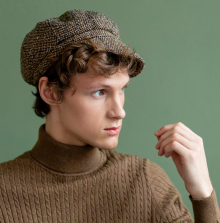
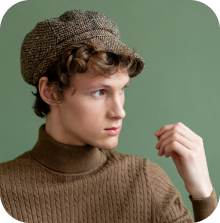
push

diff --git a/index.html b/index.html
@@ -70,50 +70,37 @@
       <!-- highlight -->
       <section class="highlight">
         <!-- content -->
+        <div class="highlight-image__small">
+          <img src="./images/mask-group.png" alt="">
+          <img src="./images/Group-87.png" alt="" class="highlight-image__small-arrow">
+        </div>
         <div class="highlight-content">
           <h1 class="highlight-heading">
             Shop the Best <span>Styles</span> in<br />One Place
           </h1>
         </div>
+       <!-- image -->
+       <div class="highlight-image">
+        <div class="highlight-image__left">
+          <img src="./images/portrait-young-man-with-hat.png" alt=""/>
+          <div class="highlight-image__left2">
+            <img src="./images/young-handsome-smiling-happy-man-traveling-hipster-bicycle-holding-vintage-photo-camera-blue-studio-background-wearing-shirt-hat-sunglasses-photographer-taking-pictures.png" alt="">  
+            <img src="./images/medium-shot-beautiful-smiling-woman 1.png"/>
+          </div>
+        </div>
+        <div class="highlight-image__mid">
+          <img src="./images/portrait-fashionable-boy-posing.png"/>
+        </div>
+       <div class="highlight-image__left">
+         <div class="highlight-image__left2">
+           <img src="./images/side-view-sensitive-man-posing-with-flower.png" alt="">  
+           <img src="./images/close-up-portrait-young-attractive-man-wearing-white-casual-long-sleeve-shirt-gray-cap-posing-isolated-lilac-standing-with-folded-arms-copy-space 1.png"/>
+         </div>
+          <img src="./images/man-wearing-sunglasses.png" alt=""/>
+        </div>
       </section>
       <!-- image -->
-      <div class="highlight-image">
-        <img
-          class="round-image"
-          src="./images/portrait-young-man-with-hat.png"
-          alt=""
-        />
-        <img
-          class="round-image"
-          src="./images/young-handsome-smiling-happy-man-traveling-hipster-bicycle-holding-vintage-photo-camera-blue-studio-background-wearing-shirt-hat-sunglasses-photographer-taking-pictures.png"
-          alt=""
-        />
-        <img
-          class="round-image"
-          src="./images/medium-shot-beautiful-smiling-woman 1.png"
-          alt=""
-        />
-        <img
-          class="round-image"
-          src="./images/portrait-fashionable-boy-posing.png"
-          alt=""
-        />
-        <img
-          class="round-image"
-          src="./images/side-view-sensitive-man-posing-with-flower.png"
-          alt=""
-        />
-        <img
-          class="round-image"
-          src="./images/close-up-portrait-young-attractive-man-wearing-white-casual-long-sleeve-shirt-gray-cap-posing-isolated-lilac-standing-with-folded-arms-copy-space 1.png"
-          alt=""
-        />
-        <img
-          class="round-image"
-          src="./images/man-wearing-sunglasses.png"
-          alt=""
-        />
-      </div>
+      
       <!-- product -->
       <section class="product">
         <h1 class="product-heading">Popular <span>Products</span></h1>

diff --git a/css/section/highlight.css b/css/section/highlight.css
@@ -1,29 +1,17 @@
 .highlight {
   max-width: 1170px;
-  margin: 0 auto;
-  display: flex;
   position: relative;
-  gap: 74px;
-  justify-content: center;
-  align-items: center;
 }
-.highlight-content {
-  width: 100%;
-  max-width: 445px;
-  margin: 0 auto;
-  text-align: center;
-  display: flex;
-  flex-direction: column;
-  align-items: center;
-}
+
 .highlight-bg {
   position: absolute;
 }
 .highlight-heading {
-  font-size: 3.5rem;
+  font-size: 60px;
   font-weight: 800;
   line-height: 4.75rem;
   margin-bottom: 30px;
+  text-align: center;
 }
 .highlight-content__text {
   margin-bottom: 40px;
@@ -40,12 +28,45 @@
   align-items: center;
   gap: 10px;
 }
-
-.highlight-image img {
-  width: 290px;
-  height: 615px;
-  justify-content: center;
+.highlight-image__small {
+  position: absolute;
+  top: 17%;
+}
+.highlight-image__small-arrow {
+  position: absolute;
+  top: -27%;
+  left: 61%;
+}
+.highlight-image {
+  display: flex;
   align-items: center;
+  gap: 20px;
+  justify-content: center;
+  margin-top: 60px;
+}
+.highlight-image img {
+}
+
+.highlight-image__mid img {
+  border-radius: 20px;
+}
+
+.highlight-image__left {
+  display: flex;
+  align-items: center;
+  gap: 20px;
+}
+.highlight-image__left img {
+  border-radius: 20px;
+}
+.highlight-image__left2 {
+  display: flex;
+  flex-direction: column;
+  /* border-radius: 20px; */
+  gap: 20px;
+}
+.highlight-image__left2 img {
+  border-radius: 20px;
 }
 .highlight-heading span {
   background: linear-gradient(90deg, #f961d8 17.08%, #1663f9 78.93%);

diff --git a/css/section/header.css b/css/section/header.css
@@ -32,7 +32,7 @@
 }
 .header-menu li a {
   font-weight: 500;
-  font-size: 1.5rem;
+  font-size: 16px;
   color: black;
 }
 .menu-mobile {
